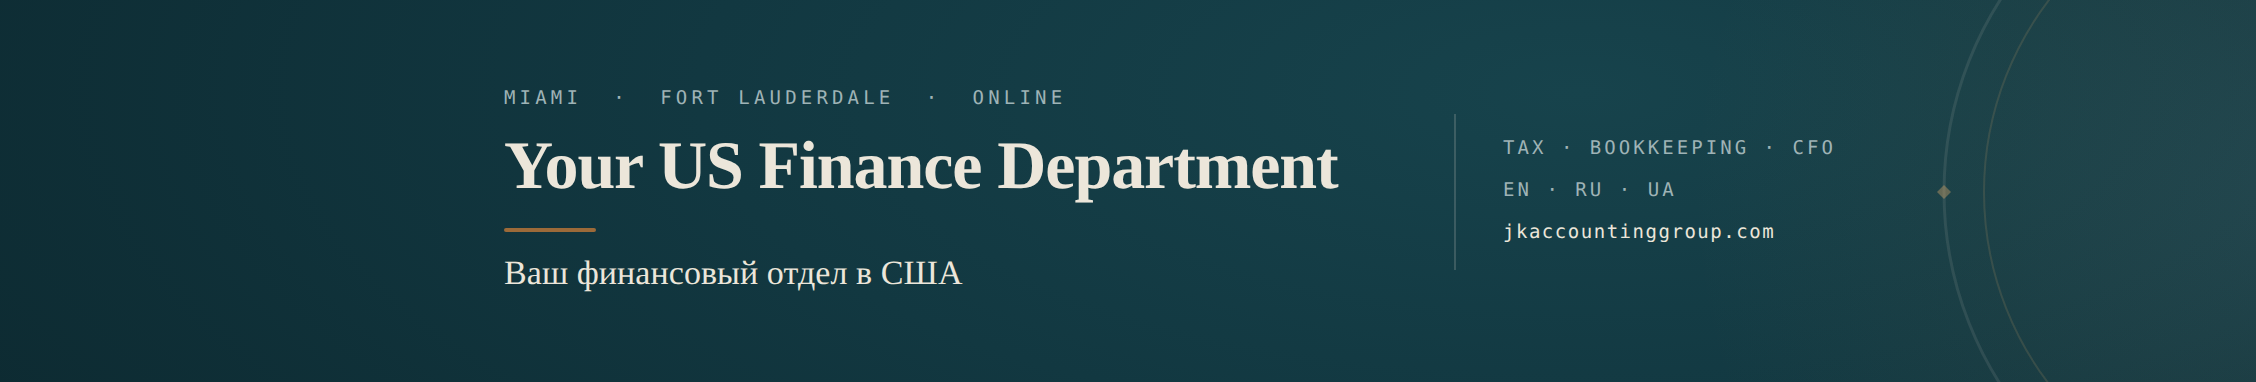
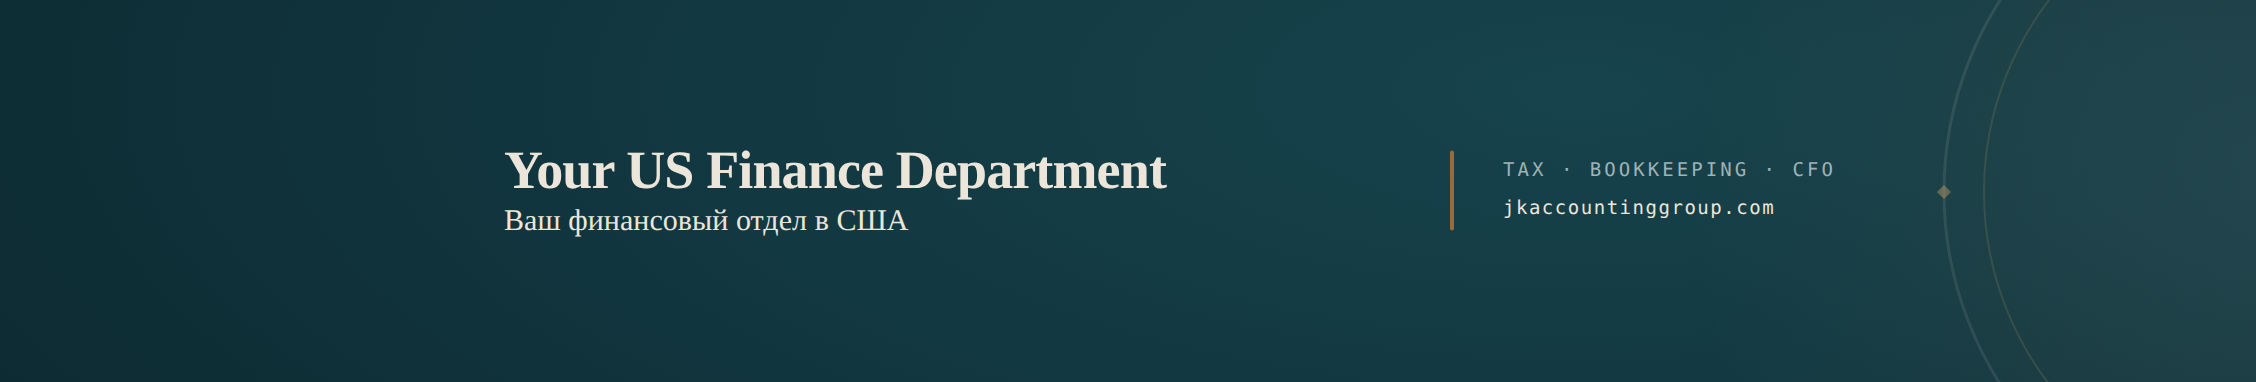
LinkedIn does not show the file it asks for — rebuild around the crop that does
Julia uploaded option B and it came out clipped: the location kicker sliced off
the top, the Russian line off the bottom. The banner was not wrong for
1128x191 — 1128x191 is simply not what LinkedIn shows.

Measured off the real Page, from the screenshot of the Edit page: every surface
re-crops the cover with object-fit: cover into a box of its own shape, and the
Edit page → Page info banner field (~10.4:1) keeps only the CENTRAL ~31% OF THE
HEIGHT — about 59px of the 191. The previous layout used the full height, so
everything above and below the middle was outside the picture.

The layout is now tiered, which is what should have been done first:

  • THE CORE — everything carrying meaning — sits in a band ~50px tall and 666px
    wide, centred both ways: the intersection of all three crops (the 31% height
    strip, the phone's ~17%-per-side centre crop, the desktop logo covering the
    bottom-left 200px). It survives every one of them. This is why the type is
    smaller than a 191px canvas invites — the canvas is not what gets seen.
  • THE FIELD — the ring geometry and the space around the core — is built to be
    thrown away, and no crop loses anything by cutting it.

What that cost, and why neither is a loss: the MIAMI · FORT LAUDERDALE · ONLINE
kicker (LinkedIn's own Page header prints the location right under the cover) and
B's EN · RU · UA rail line (a third rail line pushes the core past what the strip
[…]

diff --git a/projects/marketing/collateral/assets/linkedin-banner/banner.css b/projects/marketing/collateral/assets/linkedin-banner/banner.css
@@ -4,16 +4,33 @@
    ONE source for the geometry every option obeys, so a fix lands in all three.
    Each option file supplies only its own register (dark / light) and its copy.
 
-   Canvas: 1128 × 191 px — LinkedIn's Page cover ratio (~5.9:1). Exported at 2×
-   and 4× by render.mjs; LinkedIn resamples down to 1128 × 191 on the page.
+   Canvas: 1128 × 191 px — the ratio LinkedIn states for a Page cover (~5.9:1).
+   Exported at 2× and 4× by render.mjs.
 
-   The two crops the layout is built around:
-     • DESKTOP — the round company logo overlaps the banner's bottom-left
-       (~200 px square at this scale). Nothing but background may live at x < 230.
-     • MOBILE  — LinkedIn centre-crops roughly 17% off each side, so the visible
-       band is about x 197 → 931.
-   Their intersection — x 252 → 918 — is the only region that survives BOTH.
-   That is exactly what `.content` spans. Everything outside it is field.
+   ── THE THING THAT DECIDES THIS LAYOUT ───────────────────────────────────────
+   LinkedIn does not show the file it asks for. Every surface re-crops it with
+   `object-fit: cover` into a box of its own shape, and the tightest one measured
+   on the real Page (the Edit page → Page info banner field, ~10.4:1) shows only
+   the CENTRAL ~31% OF THE HEIGHT — about 59 px of the 191. The first version of
+   this banner was laid out to the full height and that field sliced the kicker
+   off the top and the second line off the bottom.
+
+   So the composition is tiered:
+
+     • THE CORE — everything that carries meaning — lives inside a band about
+       50 px tall and 666 px wide, centred both ways. That band survives every
+       crop observed: the 31% height strip, the phone's ~17%-per-side centre
+       crop, and the desktop company logo that covers the bottom-left ~200 px.
+       Nothing may leave it. This is why the type is smaller than a 191 px-tall
+       canvas would otherwise invite — the canvas is not what gets seen.
+
+     • THE FIELD — the ring geometry and the open space around the core — is
+       built to be thrown away. It is what a generous crop gets to show, and no
+       crop loses anything by cutting it.
+
+   Two things the banner used to say and no longer does, because LinkedIn's own
+   Page header prints them directly underneath it: the location line, and the
+   website URL is duplicated in Page info. The banner does not repeat the page.
    ───────────────────────────────────────────────────────────────────────────── */
 
 :root{
@@ -23,9 +40,9 @@
   --bronze:#9C6A39; --bronze-light:#CFA268;
   --ink:#0D2A31; --ink-body:#22201A; --ink-muted:#6F6857; --hair-light:#DAD4C6;
 
-  --serif:'Source Serif 4',Georgia,serif;
-  --sans:'IBM Plex Sans',system-ui,sans-serif;
-  --mono:'IBM Plex Mono',ui-monospace,monospace;
+  --serif:'Source Serif 4', Georgia, serif;
+  --sans:'IBM Plex Sans', system-ui, sans-serif;
+  --mono:'IBM Plex Mono', ui-monospace, monospace;
 }
 
 *{margin:0;padding:0;box-sizing:border-box}
@@ -36,35 +53,42 @@ html,body{background:#5c5c5c;display:flex;align-items:center;justify-content:cen
   -webkit-font-smoothing:antialiased;text-rendering:geometricPrecision;font-kerning:normal;
 }
 
-/* The oversized medallion ring, cropped by the frame — the banner reads as a
-   detail of the seal rather than a rectangle with type on it. Hairlines only. */
+/* The Medallion's ring, scaled far past the frame and cropped by it — field, not
+   core. Placed in the right-hand space the core deliberately leaves open. */
 .rings{position:absolute;inset:0;width:100%;height:100%;pointer-events:none}
 
-/* The one band that survives both crops. */
+/* THE CORE. left/right: the intersection of the logo overlap and the phone crop.
+   Centred vertically so the height strip takes its slice out of the middle. */
 .content{
-  position:absolute;top:0;bottom:0;left:252px;right:210px;
-  display:flex;align-items:center;justify-content:space-between;gap:44px;
+  position:absolute;top:50%;left:252px;right:210px;transform:translateY(-50%);
+  display:flex;align-items:center;justify-content:space-between;gap:30px;
 }
 .left{flex:0 1 auto;min-width:0}
 
-.kicker{
-  font-family:var(--mono);font-weight:500;font-size:9.5px;letter-spacing:.22em;
-  text-transform:uppercase;white-space:nowrap;
-}
 .headline{
-  font-family:var(--serif);font-weight:600;font-size:34px;line-height:1.04;
-  letter-spacing:-.016em;white-space:nowrap;margin-top:11px;
+  font-family:var(--serif);font-weight:600;font-size:27px;line-height:1.06;
+  letter-spacing:-.016em;white-space:nowrap;
 }
-/* Warm Bronze, used once per banner — the brand's rule for the accent. */
-.rule{width:46px;height:2px;background:var(--bronze);border-radius:2px;margin:13px 0 12px}
-.sub{font-family:var(--sans);font-weight:400;font-size:12.5px;letter-spacing:.004em;white-space:nowrap}
-.sub-ru{font-family:var(--serif);font-weight:400;font-size:17px;letter-spacing:.002em;white-space:nowrap}
+.sub{
+  font-family:var(--sans);font-weight:400;font-size:12px;letter-spacing:.004em;
+  white-space:nowrap;margin-top:5px;
+}
+.sub-ru{
+  font-family:var(--serif);font-weight:400;font-size:15px;letter-spacing:.002em;
+  white-space:nowrap;margin-top:4px;
+}
 
-/* Right rail — service line, languages, domain. Its divider is a fixed height,
-   not the height of whatever copy an option puts beside it, so two lines and
-   three lines produce the same stroke. */
-.rail{position:relative;flex:0 0 auto;padding-left:24px;display:flex;flex-direction:column;gap:10px;align-items:flex-start}
-.rail::before{content:'';position:absolute;left:0;top:50%;transform:translateY(-50%);width:1px;height:78px;background:var(--rail-hair)}
+/* Right rail — two lines, never three: a third pushes the core past what the
+   height strip shows. Its divider is the banner's ONE bronze element (the brand
+   allows the accent once), and being vertical it costs the core no height. */
+.rail{
+  position:relative;flex:0 0 auto;padding-left:26px;
+  display:flex;flex-direction:column;gap:8px;align-items:flex-start;
+}
+.rail::before{
+  content:'';position:absolute;left:0;top:50%;transform:translateY(-50%);
+  width:2px;height:40px;border-radius:2px;background:var(--bronze);
+}
 .rail .line{
   font-family:var(--mono);font-weight:400;font-size:9.5px;letter-spacing:.16em;
   text-transform:uppercase;white-space:nowrap;

diff --git a/projects/marketing/collateral/assets/linkedin-banner/banner-c-ivory.html b/projects/marketing/collateral/assets/linkedin-banner/banner-c-ivory.html
@@ -8,17 +8,20 @@
 <link rel="stylesheet" href="./banner.css">
 <title>JK Accounting Group — LinkedIn Page banner · C · Ivory (1128×191)</title>
 <style>
-  /* The light register. LinkedIn's own page is white, so the banner is given a
-     hairline and a deep-teal foot: without them a paper-coloured band reads as
-     an image that failed to load. */
+  /* The light register. LinkedIn's own page is white, so a paper-coloured band
+     has to prove it is an image and not a failed load. The frame and the
+     deep-teal foot do that at full height — but the tightest crop keeps only the
+     middle of the height and throws BOTH away, so the field itself has to carry
+     the difference: it is based on --page, the design system's warmest surface,
+     never on white, and it deepens toward the right instead of lifting toward it.
+     At any crop the strip still reads as warm paper against LinkedIn's white. */
   .stage{
-    --rail-hair:var(--hair-light);
     background:
-      radial-gradient(120% 260% at 74% 20%, #FFFFFF 0%, var(--paper) 38%, var(--page) 100%);
+      radial-gradient(130% 280% at 32% 12%, var(--paper) 0%, var(--page) 46%, #EFE9DD 100%);
     box-shadow:inset 0 0 0 1px var(--hair-light);
   }
   .foot{position:absolute;left:0;right:0;bottom:0;height:6px;background:var(--teal)}
-  .kicker,.rail .line{color:var(--ink-muted)}
+  .rail .line{color:var(--ink-muted)}
   .sub{color:var(--ink-body)}
   .headline{color:var(--teal)}
   .rail .line.url{color:var(--ink)}
@@ -39,9 +42,7 @@
     </svg>
     <div class="content">
       <div class="left">
-        <div class="kicker">Miami &nbsp;&middot;&nbsp; Fort Lauderdale &nbsp;&middot;&nbsp; Online</div>
         <h1 class="headline">Your US Finance Department</h1>
-        <div class="rule"></div>
         <p class="sub">For Ukrainian- and Russian-speaking business owners in the US.</p>
       </div>
       <div class="rail">

diff --git a/projects/marketing/collateral/assets/linkedin-banner/banner-b-bicultural.html b/projects/marketing/collateral/assets/linkedin-banner/banner-b-bicultural.html
@@ -9,7 +9,6 @@
 <title>JK Accounting Group — LinkedIn Page banner · B · Bicultural (1128×191)</title>
 <style>
   .stage{
-    --rail-hair:rgba(236,230,218,.18);
     background:radial-gradient(130% 300% at 70% 24%, var(--teal-lift) 0%, var(--teal) 30%, var(--teal-deep) 62%, var(--teal-darkest) 100%);
   }
   .glow{
@@ -17,11 +16,10 @@
     width:640px;height:640px;border-radius:50%;pointer-events:none;
     background:radial-gradient(circle, rgba(236,230,218,.075) 0%, rgba(207,162,104,.045) 36%, rgba(22,63,71,0) 68%);
   }
-  .kicker,.rail .line{color:var(--ivory-muted)}
+  .rail .line{color:var(--ivory-muted)}
   .sub-ru{color:var(--ivory)}
   .headline{color:var(--ivory)}
   .rail .line.url{color:var(--ivory)}
-  .rule{margin:12px 0 11px}
 </style>
 </head>
 <body>
@@ -40,14 +38,11 @@
     </svg>
     <div class="content">
       <div class="left">
-        <div class="kicker">Miami &nbsp;&middot;&nbsp; Fort Lauderdale &nbsp;&middot;&nbsp; Online</div>
         <h1 class="headline">Your US Finance Department</h1>
-        <div class="rule"></div>
         <p class="sub-ru" lang="ru">Ваш финансовый отдел в США</p>
       </div>
       <div class="rail">
         <div class="line">Tax &middot; Bookkeeping &middot; CFO</div>
-        <div class="line">EN &middot; RU &middot; UA</div>
         <div class="line url">jkaccountinggroup.com</div>
       </div>
     </div>

diff --git a/projects/marketing/collateral/assets/linkedin-banner/banner-a-nameplate.html b/projects/marketing/collateral/assets/linkedin-banner/banner-a-nameplate.html
@@ -9,7 +9,6 @@
 <title>JK Accounting Group — LinkedIn Page banner · A · Nameplate (1128×191)</title>
 <style>
   .stage{
-    --rail-hair:rgba(236,230,218,.18);
     background:radial-gradient(130% 300% at 70% 24%, var(--teal-lift) 0%, var(--teal) 30%, var(--teal-deep) 62%, var(--teal-darkest) 100%);
   }
   .glow{
@@ -17,7 +16,7 @@
     width:640px;height:640px;border-radius:50%;pointer-events:none;
     background:radial-gradient(circle, rgba(236,230,218,.075) 0%, rgba(207,162,104,.045) 36%, rgba(22,63,71,0) 68%);
   }
-  .kicker,.rail .line{color:var(--ivory-muted)}
+  .rail .line{color:var(--ivory-muted)}
   .sub{color:var(--ivory)}
   .headline{color:var(--ivory)}
   .rail .line.url{color:var(--ivory)}
@@ -39,9 +38,7 @@
     </svg>
     <div class="content">
       <div class="left">
-        <div class="kicker">Miami &nbsp;&middot;&nbsp; Fort Lauderdale &nbsp;&middot;&nbsp; Online</div>
         <h1 class="headline">Your US Finance Department</h1>
-        <div class="rule"></div>
         <p class="sub">For Ukrainian- and Russian-speaking business owners in the US.</p>
       </div>
       <div class="rail">

diff --git a/projects/marketing/collateral/assets/linkedin-banner/README.md b/projects/marketing/collateral/assets/linkedin-banner/README.md
@@ -5,40 +5,63 @@ here for Julia to pick from; all three are built from the
 [brand design system](../../../../../brand/JK-Brand-Guide.md) and share one stage
 ([`banner.css`](./banner.css)), so a geometry fix lands in all of them at once.
 
-> **Status: proposed — awaiting Julia's pick.** Once an option is chosen (with any
-> copy tweaks), upload its `-2256x382` export, note the choice below, and retire
-> the other two.
+> **Status: B is on the Page, and this revision replaces what is up there.**
+> The first version of B was uploaded in Aug 2026 and came out clipped — LinkedIn
+> showed only the middle of it (see the crop table below). The layout has been
+> rebuilt around that crop; **re-upload `jk-linkedin-banner-b-bicultural-2256x382.png`**.
+> A and C are kept as the live alternatives, rebuilt the same way.
 
 | Option | File | The idea | Read |
 |---|---|---|---|
-| **B · Bicultural** *(recommended)* | `banner-b-bicultural.html` | The headline in English, the same promise in Russian under it, and an `EN · RU · UA` line in the rail. | Says the differentiator instead of describing it. On LinkedIn — where referral partners decide *when* to send someone to us — the Cyrillic line is the thing no competing firm's banner has. |
+| **B · Bicultural** *(on the Page)* | `banner-b-bicultural.html` | The headline in English, the same promise in Russian directly under it. | Says the differentiator instead of describing it. On LinkedIn — where referral partners decide *when* to send someone to us — the Cyrillic line is the thing no competing firm's banner has. |
 | A · Nameplate | `banner-a-nameplate.html` | Same layout, all English: the niche stated as a plain supporting line. | The safest read, and the closest to the Facebook cover. Choose it if the Page should stay fully English-facing. |
-| C · Ivory | `banner-c-ivory.html` | The light register — paper field, petrol-teal headline, deep-teal foot. Copy identical to A. | Stands out in a feed of dark banners and lets the teal Medallion logo sit against it cleanly. The one risk it is built to survive: a paper-coloured band next to LinkedIn's white page, handled by the hairline frame and the teal foot. |
+| C · Ivory | `banner-c-ivory.html` | The light register — paper field, petrol-teal headline, deep-teal foot. Copy identical to A. | Stands out in a feed of dark banners and lets the teal Medallion logo sit against it cleanly. Also the only one carrying a residual crop risk — see the note under the crop table. |
 
 So the pick separates cleanly into two questions: **the message** (A vs B — English-only
 or bilingual) and **the register** (dark vs light — A/B vs C).
 
-## The size, and the two crops it has to survive
+## The size, and the crops it has to survive
 
 LinkedIn renders a Page cover at **1128 × 191 px** (≈ 5.9:1) and accepts a larger
 file at the same ratio, so the exports are 1×, 2× and 4×. **Upload the 2×
 (`2256 × 382`).**
 
-Two things eat the banner, and the layout is built around their intersection:
+**But LinkedIn does not show the file it asks for.** Every surface re-crops it
+with `object-fit: cover` into a box of its own shape, and the crops disagree with
+each other. Three were measured off the real Page:
 
-- **Desktop** — the company logo (the Medallion Julia has already set) overlaps the
-  banner's **bottom-left**, roughly a 200 px square at this scale. Nothing but
-  background lives at `x < 230`.
-- **Mobile** — LinkedIn centre-crops roughly **17% off each side**, so the visible
-  band is about `x 197 → 931`.
+| Crop | What it keeps | Where |
+|---|---|---|
+| **The strip** | only the **central ~31% of the height** — about 59 px of the 191 | Edit page → Page info → the Banner field (~10.4:1) |
+| Mobile | the centre, ~17% cut off **each side** | the Page on a phone |
+| Desktop | everything, **minus the company logo** covering the bottom-left ~200 px square | the Page on a computer |
 
-Their intersection is `x 252 → 918`, and that is exactly the band `.content` spans.
-The right field beyond it is deliberately open: it carries the oversized, cropped
-Medallion ring — visible on desktop, and nothing is lost when a phone crops it away.
+The first version of this banner was laid out to the full 191 px, and the strip
+sliced the location kicker off the top and the second line off the bottom — which
+is exactly what Julia saw in the Edit page. So the layout is now **tiered**:
 
-The `exports/` folder ships a `-preview-desktop` (with the logo overlap drawn in)
-and a `-preview-mobile` (the centre crop) for each option, so both readings can be
-checked before anything is uploaded.
+- **The core** — everything that carries meaning — sits in a band about **50 px
+  tall and 666 px wide, centred both ways**. That band is the intersection of all
+  three crops, so it survives every one of them. It is why the type is smaller
+  than a 191 px canvas would otherwise invite: **the canvas is not what gets seen.**
+- **The field** — the ring geometry and the space around the core — is built to be
+  thrown away. A generous crop shows it; a tight crop loses nothing by cutting it.
+
+`exports/` carries a preview of each crop for every option. **Check
+`-preview-strip` first** — if the message reads there, it reads everywhere.
+
+Two things the banner used to carry and no longer does, because LinkedIn prints
+them itself directly under the cover: the `MIAMI · FORT LAUDERDALE · ONLINE`
+kicker (the Page header shows the location) and, in option B, the `EN · RU · UA`
+rail line (a third rail line pushed the core past what the strip shows — and the
+Russian headline already makes the point).
+
+> **One residual risk, on option C only.** Its frame and deep-teal foot are what
+> stop a paper-coloured band reading as an image that failed to load — and the
+> strip crop throws both away. The field is therefore based on `--page`, the
+> design system's warmest surface, and deepens to the right, so the strip still
+> reads as warm paper against LinkedIn's white. It is the least crop-proof of the
+> three; A and B carry no such risk.
 
 ## Files
 
@@ -54,8 +77,9 @@ linkedin-banner/
     ├── jk-linkedin-banner-<id>-1128x191.png    LinkedIn's stated size
     ├── jk-linkedin-banner-<id>-2256x382.png    ← the upload
     ├── jk-linkedin-banner-<id>-4512x764.png    archival
-    ├── jk-linkedin-banner-<id>-preview-desktop.png
-    └── jk-linkedin-banner-<id>-preview-mobile.png
+    ├── jk-linkedin-banner-<id>-preview-strip.png    ← check this one first
+    ├── jk-linkedin-banner-<id>-preview-mobile.png
+    └── jk-linkedin-banner-<id>-preview-desktop.png
 ```
 
 Edit copy and layout in the HTML; edit anything structural in `banner.css` — that is
@@ -64,14 +88,13 @@ three options cannot drift apart.
 
 ## Copy on the asset
 
-- **Kicker:** `MIAMI · FORT LAUDERDALE · ONLINE`
 - **Headline:** `Your US Finance Department` — verbatim from the website, and the same
   headline as the [Facebook cover redesign](../facebook-cover/julia-redesign/).
 - **Supporting line:** A and C — `For Ukrainian- and Russian-speaking business owners in the US.`
   · B — `Ваш финансовый отдел в США` (native Russian, matching the pitch's own wording in
   [`positioning.md`](../../../positioning.md), not a literal translation).
 - **Rail:** `TAX · BOOKKEEPING · CFO` (echoing the Medallion's own service line) ·
-  `EN · RU · UA` (B only) · `jkaccountinggroup.com`
+  `jkaccountinggroup.com` — two lines, never three (see the crop table above).
 
 **No CTA and no figures on the banner, on purpose.** A LinkedIn cover is not clickable,
 so `Book a free discovery call` would send people hunting; and the booking URLs still
@@ -84,7 +107,8 @@ the Page's *About* section, where it can be explained, rather than on the image.
 - **Palette:** Petrol Teal `#123841` / Deep Teal `#0D2A31` / Darkest `#091F24`; Soft Ivory
   `#ECE6DA` and muted `#9FB3B6` on dark; Paper `#FBF8F2` / Page `#F6F3EC` and ink
   `#0D2A31` / `#22201A` / `#6F6857` on light. **Warm Bronze `#9C6A39` appears once per
-  banner** — the rule under the headline — with `#CFA268` only as a hairline in the ring.
+  banner** — the vertical rule dividing the headline from the rail, which being vertical
+  costs the core no height — with `#CFA268` only as a hairline in the ring.
   All body-size text clears 4.5:1 against its field.
 - **Type:** the brand's three-step rhythm — IBM Plex Mono kicker (uppercase, tracked) →
   Source Serif 4 headline → IBM Plex Sans supporting line, with IBM Plex Mono again in the
@@ -110,3 +134,5 @@ Georgia and system sans, which looks close enough to miss.
 
 LinkedIn Page → **Edit page → Page info → Cover image** → upload the `-2256x382` PNG.
 Check the Page on a phone afterwards: the centre crop is the reading most visitors get.
+The Edit-page preview is **not** the Page — it is the tightest crop of the three, so judge
+the result on the live Page, not on the upload form.
